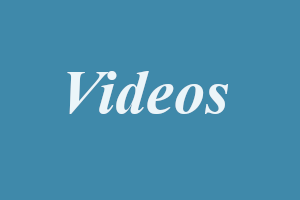
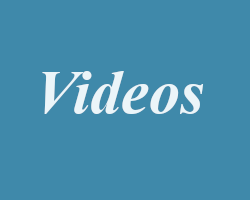
Melhorei os blocos das imagem e videos do destaque

Changed region(s): [[0.168, 0.33, 0.812, 0.57]]

diff --git a/css/events-spaces.css b/css/events-spaces.css
@@ -91,16 +91,39 @@ nav{
      
 }
 
-main img{
-    width: 30%;
-}
-
 h2{
     color: var(--cor8);
+    margin-bottom: 15px;
 }
 
 
 .butao-descricao{
     color: #256aff;
     text-decoration: none;
+}
+
+div.linha{   
+    display: inline-block; 
+    width: 250px;
+    height: 310px;    
+    background-color: var(--cor6);
+    padding: 15px;
+    margin: auto;
+    
+    margin-right: 15px;
+    margin-bottom: 15px;
+    box-shadow: 3px 3px 5px rgba(0, 0, 0, 0.555);
+    border-radius: 10px ;
+}
+div.espaco{
+    margin-left: 50px;
+}
+
+p{
+    width: 250px;
+    height: 95px;
+    text-align: justify;
+    
+    
+
 }

diff --git a/index.php b/index.php
@@ -4,15 +4,36 @@
 <article >
     <h2>Destaques</h2>
             
-    <a href="destaques.php"><img src="imagens/royal01.png" alt="Imagens de eventos"></a>                  
+<div class="linha espaco">
+        <a href="destaques.php"><img src="imagens/royal01.png" alt="Imagens de eventos"></a>
+        <p>Salão de festa Royal plaza. Faça ja a sua reserva.</p> 
+</div>
+
+<div class="linha">
     <a href="destaques.php"><img src="imagens/esmeralda06.png" alt="Videos em destaques"></a> 
-    <a href="destaques.php"><img src="imagens/alegria06.png" alt="Imagens de eventos"></a>           
+    <p>Salão de festa Esmeralda </p>
+</div>    
+
+<div class="linha">
+    <a href="destaques.php"><img src="imagens/alegria06.png" alt="Imagens de eventos"></a> 
+    <p>Salão de festa Alegria</p>          
+</div>  
 </article> 
 
 <article > 
-    <a href="destaques.php"><img src="imagens/videos.png" alt="Imagens de eventos"></a>
+    <div class="linha espaco">
+        <a href="destaques.php"><img src="imagens/videos.png" alt="Imagens de eventos"></a>
+        <p>Salão de festa Royal plaza</p>       
+    </div>
+    <div class="linha">
     <a href="destaques.php"><img src="imagens/videos.png" alt="Videos em destaques"></a>
-    <a href="destaques.php"><img src="imagens/videos.png" alt="Imagens de eventos"></a>           
+    <p>Salão de festa Esmeralda </p>
+    </div>  
+
+    <div class="linha">
+    <a href="destaques.php"><img src="imagens/videos.png" alt="Imagens de eventos"></a> 
+    <p>Salão de festa Alegria</p> 
+    </div>            
 </article>   
    
 <article>
